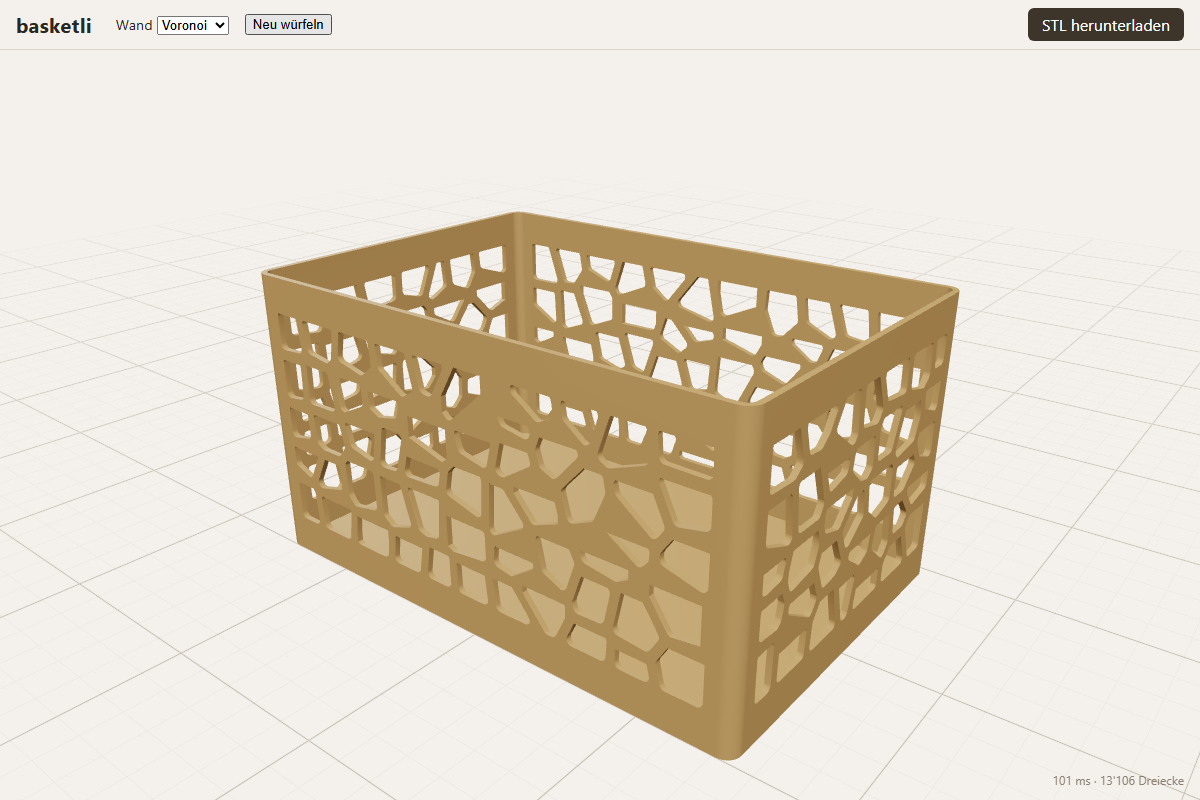
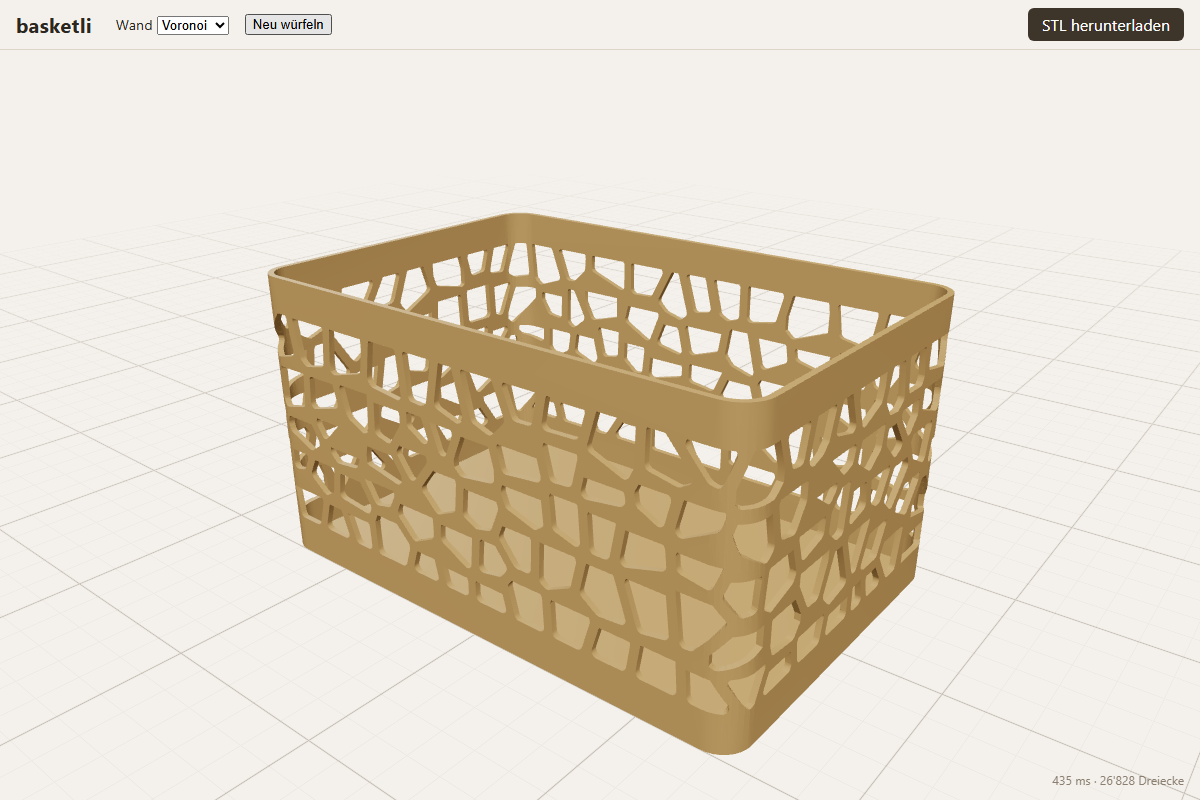
feat(patterns): Voronoi runs round the whole basket without a seam
- cells are laid out on the unrolled outer wall (arc length x height) with
  periodic ghost sites, so the pattern wraps round the corners seamlessly
- each convex hole is bent onto the wall along the outer outline (edges
  subdivided to 0.5 mm) and pushed through it; one cutter mesh for all holes
- Voronoi needs a corner radius >= 8 mm (inner corner webs >= 80 %)
- tests: webs exactly webWidth outside, >= 80 % inside the wall, holes on
  the corner arcs, printability unchanged (bridges <= 12.7 mm)

diff --git a/src/geometry/patterns/voronoi.ts b/src/geometry/patterns/voronoi.ts
@@ -3,6 +3,7 @@ import type { Scope, Wasm } from '../manifold';
 import type { BasketParams } from '../params';
 import { seededRandom } from '../random';
 import type { Vec2 } from '../shapes';
+import { RoundedRectPath } from '../weave/outline';
 
 /** Corner radius of the holes (organic look), scaled down for small cells. */
 export const CORNER_ROUND = 1.5;
@@ -64,9 +65,18 @@ function clipHalfPlane(poly: Vec2[], a: Vec2, b: Vec2): Vec2[] {
   return out;
 }
 
-/** Voronoi cells of `sites`, clipped to `domain` (convex, counter-clockwise). */
-export function voronoiCells(domain: Rect, sites: Vec2[], cellSize: number): Vec2[][] {
+/**
+ * Voronoi cells of `sites`, clipped to `domain` (convex, counter-clockwise).
+ * `ghosts` only act as neighbours (e.g. periodic copies), they get no cell.
+ */
+export function voronoiCells(
+  domain: Rect,
+  sites: Vec2[],
+  cellSize: number,
+  ghosts: Vec2[] = [],
+): Vec2[][] {
   const reach = 3 * cellSize;
+  const all = [...sites, ...ghosts];
   return sites.map((a) => {
     let cell: Vec2[] = [
       [domain.x0, domain.y0],
@@ -74,7 +84,7 @@ export function voronoiCells(domain: Rect, sites: Vec2[], cellSize: number): Vec
       [domain.x1, domain.y1],
       [domain.x0, domain.y1],
     ];
-    for (const b of sites) {
+    for (const b of all) {
       if (b === a || Math.abs(b[0] - a[0]) > reach || Math.abs(b[1] - a[1]) > reach) continue;
       cell = clipHalfPlane(cell, a, b);
       if (cell.length < 3) break;
@@ -111,73 +121,96 @@ export function printableHole(hole: Vec2[]): Vec2[] {
   return out;
 }
 
-/** Straight wall faces of the outer outline: center, tangent (CCW), outward normal, length. */
-function wallFaces(p: BasketParams) {
-  const lx = p.width - 2 * p.cornerRadius;
-  const ly = p.depth - 2 * p.cornerRadius;
-  return [
-    { c: [0, -p.depth / 2], t: [1, 0], n: [0, -1], len: lx },
-    { c: [p.width / 2, 0], t: [0, 1], n: [1, 0], len: ly },
-    { c: [0, p.depth / 2], t: [-1, 0], n: [0, 1], len: lx },
-    { c: [-p.width / 2, 0], t: [0, -1], n: [-1, 0], len: ly },
-  ] as const;
+/** Longest step (mm) along the wall between two cutter vertices (follows the corners). */
+const MAX_SEGMENT = 0.5;
+
+/**
+ * Voronoi holes in wall coordinates (x = arc length along the outer wall,
+ * starting at the middle of the front, counter-clockwise; y = height).
+ * The pattern is periodic in x, so it runs round the corners without a seam.
+ */
+export function voronoiHoles(wasm: Wasm, scope: Scope, p: BasketParams): Vec2[][] {
+  const { CrossSection } = wasm;
+  const path = new RoundedRectPath(p.width, p.depth, p.cornerRadius);
+  const L = path.length;
+  const y0 = p.floor + p.borderBand;
+  const y1 = p.height - p.borderBand;
+  if (y1 - y0 < p.voronoi.cellSize / 2) return [];
+
+  const sites = voronoiSites({ x0: 0, y0, x1: L, y1 }, p.voronoi.cellSize, p.voronoi.seed);
+  const ghosts = sites.flatMap(([x, y]): Vec2[] => [
+    [x - L, y],
+    [x + L, y],
+  ]);
+  const domain: Rect = { x0: -L, y0, x1: 2 * L, y1 };
+  const round = cornerRound(p.voronoi.cellSize);
+  const holes: Vec2[][] = [];
+  for (const cell of voronoiCells(domain, sites, p.voronoi.cellSize, ghosts)) {
+    // Shrink by half the web plus the corner radius, then grow back by the
+    // radius: rounded corners, webs exactly webWidth wide (on the outside).
+    const cs = scope.keep(CrossSection.ofPolygons([cell]));
+    const inset = scope.keep(cs.offset(-p.webWidth / 2 - round, 'Miter'));
+    const shrunk = scope.keep(inset.offset(round, 'Round', 2, 16));
+    for (const poly of shrunk.toPolygons()) {
+      if (poly.length < 3) continue;
+      const hole = printableHole(poly.map(([x, y]) => [x, y] as Vec2));
+      if (hole.length >= 3) holes.push(hole);
+    }
+  }
+  return holes;
+}
+
+/** Inserts points so no edge is longer than `max` (keeps curved walls smooth). */
+function subdivide(poly: Vec2[], max: number): Vec2[] {
+  const out: Vec2[] = [];
+  poly.forEach((a, i) => {
+    const b = poly[(i + 1) % poly.length]!;
+    const n = Math.max(1, Math.ceil(Math.hypot(b[0] - a[0], b[1] - a[1]) / max));
+    for (let k = 0; k < n; k++)
+      out.push([a[0] + ((b[0] - a[0]) * k) / n, a[1] + ((b[1] - a[1]) * k) / n]);
+  });
+  return out;
 }
 
 /**
- * Hole cutters for the Voronoi wall style: one prism per cell, through the
- * wall, on each straight face. Corners and the border bands stay solid.
+ * One cutter body for all holes: every (convex) hole is bent onto the wall
+ * along the outer outline and pushed through it from 1 mm outside to 1 mm
+ * inside, so holes follow the rounded corners.
  */
 export function voronoiCutters(wasm: Wasm, scope: Scope, p: BasketParams): Manifold[] {
-  const { CrossSection } = wasm;
-  const cutters: Manifold[] = [];
-  const v0 = p.floor + p.borderBand;
-  const v1 = p.height - p.borderBand;
-  if (v1 - v0 < p.voronoi.cellSize / 2) return cutters;
-  const depth = 4 * p.wall + 2;
+  const holes = voronoiHoles(wasm, scope, p);
+  if (holes.length === 0) return [];
+  const path = new RoundedRectPath(p.width, p.depth, p.cornerRadius);
+  const uOut = 1;
+  const uIn = -(p.wall + 1);
+  const vert: number[] = [];
+  const tri: number[] = [];
+  const put = (x: number, y: number, u: number) => {
+    const { p: at, n } = path.at(x);
+    vert.push(at[0] + n[0] * u, at[1] + n[1] * u, y);
+    return vert.length / 3 - 1;
+  };
 
-  wallFaces(p).forEach((face, f) => {
-    const half = face.len / 2 - p.webWidth;
-    if (half * 2 < p.voronoi.cellSize / 2) return;
-    const domain: Rect = { x0: -half, y0: v0, x1: half, y1: v1 };
-    const sites = voronoiSites(domain, p.voronoi.cellSize, p.voronoi.seed * 4 + f);
-    const holes: Vec2[][] = [];
-    for (const cell of voronoiCells(domain, sites, p.voronoi.cellSize)) {
-      // Shrink by half the web plus the corner radius, then grow back by the
-      // radius: rounded corners, webs exactly webWidth wide.
-      const round = cornerRound(p.voronoi.cellSize);
-      const cs = scope.keep(CrossSection.ofPolygons([cell]));
-      const inset = scope.keep(cs.offset(-p.webWidth / 2 - round, 'Miter'));
-      const shrunk = scope.keep(inset.offset(round, 'Round', 2, 16));
-      for (const poly of shrunk.toPolygons()) {
-        if (poly.length < 3) continue;
-        const hole = printableHole(poly.map(([x, y]) => [x, y] as Vec2));
-        if (hole.length >= 3) holes.push(hole);
-      }
+  for (const hole of holes) {
+    const ring = subdivide(hole, MAX_SEGMENT);
+    const cx = ring.reduce((a, q) => a + q[0], 0) / ring.length;
+    const cy = ring.reduce((a, q) => a + q[1], 0) / ring.length;
+    const m = ring.length;
+    const cO = put(cx, cy, uOut);
+    const cI = put(cx, cy, uIn);
+    const O = ring.map(([x, y]) => put(x, y, uOut));
+    const I = ring.map(([x, y]) => put(x, y, uIn));
+    for (let i = 0; i < m; i++) {
+      const j = (i + 1) % m;
+      tri.push(cO, O[i]!, O[j]!); // outer cap, facing outwards
+      tri.push(cI, I[j]!, I[i]!); // inner cap, facing inwards
+      tri.push(O[i]!, I[j]!, O[j]!, O[i]!, I[i]!, I[j]!); // side wall
     }
-    if (holes.length === 0) return;
-    const prism = scope.keep(
-      scope.keep(CrossSection.ofPolygons(holes)).extrude(depth, 0, 0, [1, 1], true),
-    );
-    // Columns: local x → tangent, local y → up, local z → outward normal.
-    const m = prism.transform([
-      face.t[0],
-      face.t[1],
-      0,
-      0,
-      0,
-      0,
-      1,
-      0,
-      face.n[0],
-      face.n[1],
-      0,
-      0,
-      face.c[0],
-      face.c[1],
-      0,
-      1,
-    ]);
-    cutters.push(scope.keep(m));
+  }
+  const mesh = new wasm.Mesh({
+    numProp: 3,
+    vertProperties: Float32Array.from(vert),
+    triVerts: Uint32Array.from(tri),
   });
-  return cutters;
+  return [scope.keep(new wasm.Manifold(mesh))];
 }

diff --git a/tests/geometry/patterns/voronoi.test.ts b/tests/geometry/patterns/voronoi.test.ts
@@ -1,3 +1,4 @@
+import type { CrossSection } from 'manifold-3d';
 import { beforeAll, describe, expect, it } from 'vitest';
 import { buildManifold } from '../../../src/geometry/build';
 import { loadManifold, Scope, type Wasm } from '../../../src/geometry/manifold';
@@ -6,6 +7,7 @@ import {
   MAX_HOLE_TOP,
   printableHole,
   voronoiCutters,
+  voronoiHoles,
   voronoiCells,
   voronoiSites,
   type Rect,
@@ -79,24 +81,69 @@ describe('printableHole', () => {
 });
 
 describe('voronoi webs', () => {
-  it.each([6, 9, 12])('cell size %d: no web thinner than webWidth', async (cellSize) => {
-    const p = clampParams({
+  const params = (cellSize: number) =>
+    clampParams({
       ...DEFAULTS,
       handles: 'none',
       wallStyle: 'voronoi',
       voronoi: { cellSize, seed: 1 },
     }).params;
-    const wasmLocal = await loadManifold();
+
+  /** True if no two of the holes come closer than `gap`. */
+  function apart(cs: CrossSection, gap: number, scope: Scope): boolean {
+    const grown = scope.keep(cs.offset(gap / 2, 'Round'));
+    const merged = grown.decompose();
+    const separate = cs.decompose();
+    const ok = merged.length === separate.length;
+    [...merged, ...separate].forEach((x) => x.delete());
+    return ok;
+  }
+
+  it.each([6, 9, 12])('cell size %d: webs exactly webWidth on the outside', (cellSize) => {
+    const p = params(cellSize);
     const scope = new Scope();
     try {
-      const cutters = voronoiCutters(wasmLocal, scope, p);
-      // Slice the front-face cutters at mid height: holes there must be at
-      // least webWidth apart (allow 2 % for polygonised round corners).
-      const holes = scope.keep(wasmLocal.Manifold.union(cutters)).slice(p.height / 2);
-      const grown = scope.keep(holes.offset((p.webWidth / 2) * 0.98, 'Round'));
-      const merged = grown.decompose().length;
-      const separate = holes.decompose().length;
-      expect(merged).toBe(separate);
+      const holes = voronoiHoles(wasm, scope, p);
+      const cs = scope.keep(wasm.CrossSection.ofPolygons(holes));
+      // 2 % allowance for polygonised round corners
+      expect(apart(cs, p.webWidth * 0.98, scope)).toBe(true);
+      expect(apart(cs, p.webWidth * 1.1, scope)).toBe(false); // and not much wider
+    } finally {
+      scope.dispose();
+    }
+  });
+
+  it.each([6, 9, 12])('cell size %d: inner corner webs ≥ 80 % of webWidth', (cellSize) => {
+    const p = params(cellSize);
+    const scope = new Scope();
+    try {
+      const cutters = voronoiCutters(wasm, scope, p);
+      const cut = scope.keep(scope.keep(wasm.Manifold.union(cutters)).slice(p.height / 2));
+      // only the part of each hole that lies inside the wall material
+      const tub = scope.keep(buildManifold(wasm, { ...p, wallStyle: 'solid' }, 'export'));
+      const wall = scope.keep(tub.slice(p.height / 2));
+      const holes = scope.keep(cut.intersect(wall));
+      expect(apart(holes, p.webWidth * 0.8 * 0.98, scope)).toBe(true);
+    } finally {
+      scope.dispose();
+    }
+  });
+
+  it('runs round the corners (holes on the corner arcs)', () => {
+    const p = params(9);
+    const scope = new Scope();
+    try {
+      const L = 2 * (p.width + p.depth) - (8 - 2 * Math.PI) * p.cornerRadius;
+      const firstCorner = (p.width - 2 * p.cornerRadius) / 2; // arc length of the first corner start
+      const arc = (Math.PI / 2) * p.cornerRadius;
+      const holes = voronoiHoles(wasm, scope, p);
+      const onCorner = holes.filter((h) =>
+        h.some(([x]) => {
+          const s = ((x % L) + L) % L;
+          return s > firstCorner && s < firstCorner + arc;
+        }),
+      );
+      expect(onCorner.length).toBeGreaterThan(0);
     } finally {
       scope.dispose();
     }

diff --git a/src/geometry/params.ts b/src/geometry/params.ts
@@ -67,6 +67,8 @@ export const LIMITS = {
 } as const satisfies Record<string, Range>;
 
 export const MIN_WEAVE_CORNER_RADIUS = 10;
+/** Voronoi wraps round the corners: keeps inner webs at ≥ 80 % (wall 1.6 mm). */
+export const MIN_VORONOI_CORNER_RADIUS = 8;
 
 /** Max. stake spacing of a weave (longest bridge, SPEC: Druckbarkeit). */
 export const MAX_OPEN_SPACING = 15;
@@ -208,6 +210,11 @@ export function clampParams(input: BasketParams): ClampResult {
   if (p.cornerRadius > maxRadius) {
     p.cornerRadius = maxRadius;
     rule('cornerRadius', maxRadius);
+  }
+  if (p.wallStyle === 'voronoi' && p.cornerRadius < MIN_VORONOI_CORNER_RADIUS) {
+    // Holes run round the corners; tighter corners squeeze the inner webs.
+    p.cornerRadius = Math.min(MIN_VORONOI_CORNER_RADIUS, maxRadius);
+    rule('cornerRadius', p.cornerRadius);
   }
   if (isWeave) {
     // Strands must not self-intersect where they bend round the corners.
